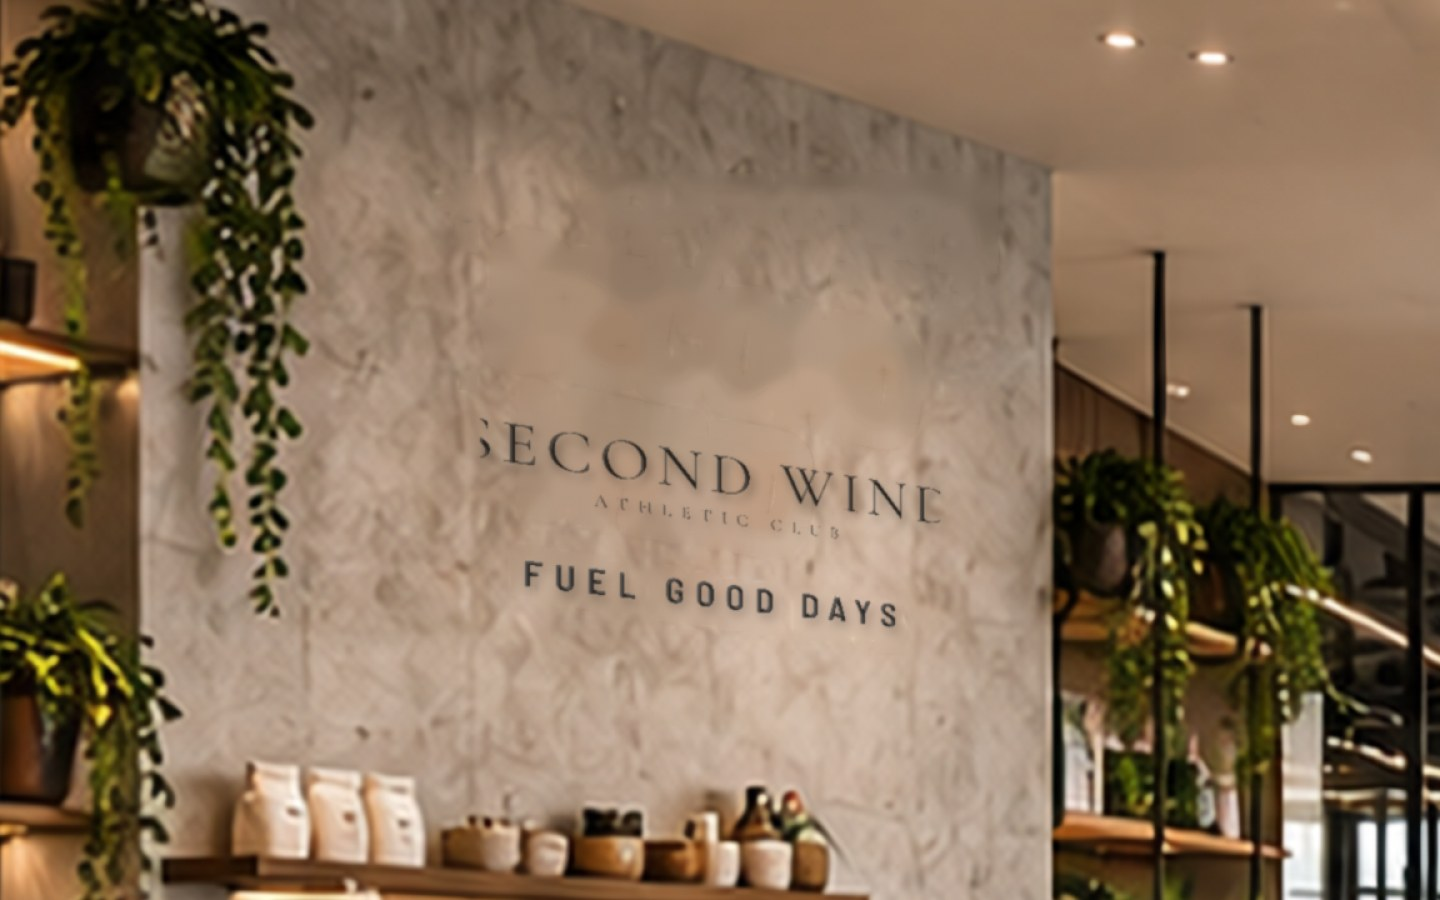
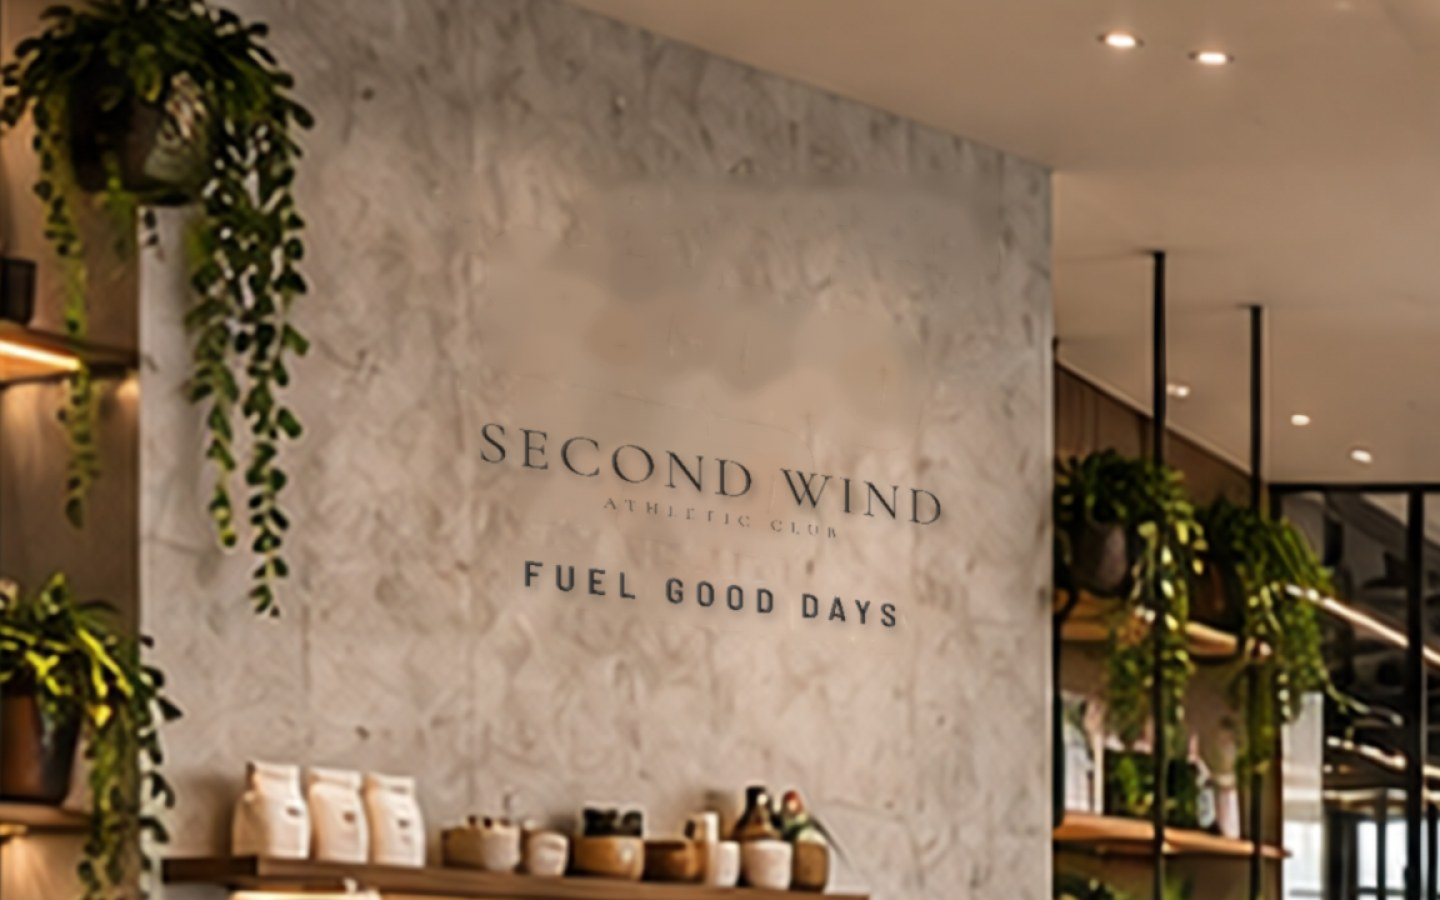
The serif (F7): full presentation, SW monogram, fixed clipped letters; top four
Claude-Session: https://claude.ai/code/session_01T7nJu2bFotHgzhJym42XGa

Changed region(s): [[0.3125, 0.4667, 0.6562, 0.5911]]

diff --git a/brand/identity-alt.html b/brand/identity-alt.html
@@ -119,7 +119,7 @@ html { -webkit-text-size-adjust:100%; text-size-adjust:100%; }
 <div class="wrap">
   <div class="top">
     <a href="index.html" style="background:var(--ink);color:var(--bg)">&#8592; Review</a><a href="#c1">Idea</a><a href="#c2">Icon</a><a href="#c3">Letters</a><a href="#c4">Lockups</a><a href="#c5">Colour</a><a href="#c6">Type</a><a href="#c7">In the space</a><a href="#cafe">Café</a><a href="#c8">Social</a><a href="#c9">Apparel</a><a href="#c10">Digital</a><a href="#c11">Print</a>
-    <span id="switch" style="margin-left:auto;display:flex;gap:6px;align-items:center"><span style="font:500 10px var(--f-label);letter-spacing:.12em;text-transform:uppercase;color:var(--muted)">Top three</span><a href="identity.html">Two strokes</a><a href="?logo=W1" data-l="W1">The wing</a><a href="?logo=B4" data-l="B4">The crest</a></span>
+    <span id="switch" style="margin-left:auto;display:flex;gap:6px;align-items:center"><span style="font:500 10px var(--f-label);letter-spacing:.12em;text-transform:uppercase;color:var(--muted)">Top four</span><a href="identity.html">Two strokes</a><a href="?logo=W1" data-l="W1">The wing</a><a href="?logo=B4" data-l="B4">The crest</a><a href="?logo=F7" data-l="F7">The serif</a><a class="ext" style="margin-left:8px" href="guidelines.html">Guidelines</a></span>
   </div>
 
   <!-- cover -->
@@ -172,7 +172,7 @@ html { -webkit-text-size-adjust:100%; text-size-adjust:100%; }
     <div class="txt"><h2><small>03</small>The letters</h2>
       <p class="lead" data-t="lettersLead"></p>
       <p data-t="letters1"></p>
-      <p>The same letters come in four weights, light to bold, drawn from the same bars. The logo never changes, only how heavy it is: light where people are close and calm, in the café, on cups, menus and print; bold where it has to carry across a room or a street, on the gym walls, the café front, merch and social. <span class="draft">Sergio to confirm the split, or one weight everywhere</span></p>
+      <p>The same letters come in four weights, light to bold<span data-t="bars"></span>. The logo never changes, only how heavy it is: light where people are close and calm, in the café, on cups, menus and print; bold where it has to carry across a room or a street, on the gym walls, the café front, merch and social. <span class="draft">Sergio to confirm the split, or one weight everywhere</span></p>
       <p class="k" data-t="lettersK"></p></div>
     <div class="frames">
       <div class="f"><div class="sl" data-sw="primary" data-c="ink" style="left:8%;top:22%;width:84%;height:56%"></div><span class="cap">The full mark · light</span></div>
@@ -491,7 +491,7 @@ html { -webkit-text-size-adjust:100%; text-size-adjust:100%; }
       lettersK: 'Italic · SECOND light, WIND bold · script club line, print only',
       lockupNote: 'The wing version has no stacked form: it is one line, always. Where a square is needed, the icon stands alone.',
       minSizes: 'FULL MARK · 60 MM PRINT · 220 PX · 90 MM THREAD<br>ICON · 18 MM · 16 PX · 24 MM THREAD', embroider: 'The D and its feathers embroider as one shape in two colours at most; the fine script line is left off anything stitched.',
-      cover: 'The wing' },
+      bars: ', drawn from the same bars', cover: 'The wing' },
     B4: { title: 'The crest', idea: 'A shield with the initials, a cut through the letters, the year beneath and the club name under the shield. Membership and belonging, drawn the traditional way.',
       iconLead: 'The shield is the icon. SW inside it, a single cut through both letters, EST. 2026 under them. It says members\' club before it says gym.',
       icon1: 'It is the strongest of the fourteen on a dark gym wall and on a fascia: a solid shape with a hard outline reads from the far end of the floor and from across the foyer. Embroidered on a cap it looks like it has been there for years.',
@@ -503,7 +503,19 @@ html { -webkit-text-size-adjust:100%; text-size-adjust:100%; }
       lettersK: 'Upright condensed capitals · the shield carries the weight',
       lockupNote: 'The crest is naturally square, so it works where the others need a stacked form; the full lockup is the tall version.',
       minSizes: 'FULL LOCKUP · 30 MM PRINT · 120 PX · 50 MM THREAD<br>SHIELD · 14 MM · 24 PX · 30 MM THREAD', embroider: 'The shield embroiders as a filled shape with the letters reversed out, which is why the cut through the letters is kept wide.',
-      cover: 'The crest' }
+      bars: ', drawn from the same bars', cover: 'The crest' },
+    F7: { title: 'The serif', idea: 'The name set in a fine serif, tracked wide, with the club line small beneath it. No symbol, no device: the letters themselves are the logo, the way a fashion house or a good hotel does it.',
+      iconLead: 'The SW monogram. The two initials set in the same serif, close enough to touch, between two hairlines. It is the piece that goes where the full name will not fit.',
+      icon1: 'This is the most expensive-looking of the fourteen, and the quietest. In the café it is at home at once: it looks like the cup, the menu and the shopfront of somewhere that charges properly for coffee. On a lit sign the serifs catch the halo and read as jewellery rather than signage, which suits the foyer and the street.',
+      icon2: 'What it gives up is sport. Nothing in it moves or works; it says taste before it says training. On the gym floor it has to be used bold and large, and it never goes on the turf or the track, where a serif at floor scale looks wrong. The monogram embroiders well; the full name does not go below 40 mm on thread.',
+      iconK: 'Icon · SW monogram between two rules · minimum 18 mm print, 24 px, 30 mm thread',
+      reads: 'Hotel.<br>Atelier.<br>Members.', notThis: 'Fashion label. Winery. A law firm.',
+      lettersLead: 'SECOND WIND in a light serif with wide tracking; ATHLETIC CLUB smaller and wider still beneath. Weight is the type weight, regular to bold, and the leaning version is the true italic.',
+      letters1: 'The letters do all the work, so spacing is the rule that matters: the tracking never tightens, the two lines stay centred on each other, and nothing else sits inside the clear space. Light in the café and in print; bold on the gym walls and the café front, where the thin strokes would otherwise disappear against the dark. This is the one candidate drawn in a typeface rather than from our bars, so it is also the easiest to set badly: the typeface and its tracking are fixed, not a style to approximate.',
+      lettersK: 'Light serif capitals · tracked wide · bold on dark walls · italic is the lean',
+      lockupNote: 'The serif has a natural stacked form, two centred lines, and that is the only lockup; it is never set on one line with the club name beside it.',
+      minSizes: 'FULL MARK · 40 MM PRINT · 180 PX · 60 MM THREAD<br>MONOGRAM · 18 MM · 24 PX · 30 MM THREAD', embroider: 'The monogram embroiders in a single colour with the hairlines left off; the full name is printed or cut, never stitched small, because thin serifs break up in thread.',
+      bars: ', the four weights of the typeface', cover: 'The serif' }
   };
   var q = new URLSearchParams(location.search), ID = (q.get('logo') || 'W1').toUpperCase(); if (!L[ID]) ID = 'W1';
   var T = L[ID];

diff --git a/brand/index.html b/brand/index.html
@@ -39,7 +39,7 @@ li.rec a{background:var(--walnut);color:var(--linen);border-color:var(--walnut)}
     <svg xmlns="http://www.w3.org/2000/svg" viewBox="-8 -8 228 82" style="width:120px;height:46px" aria-hidden="true"><g fill="#1e1c1a"><path d="M16 0L96 0L80 26L0 26ZM56 40L212 40L196 66L40 66Z"/></g></svg>
     <p class="label">Second Wind Athletic Club · brand review · November 2026</p>
     <h1>The brand,<br>for review</h1>
-    <p class="lead">Everything in one place. Start with the fourteen logos and tell us what you like and don't; then HUB's pages with the mark in place, the three identities, and the detail.</p>
+    <p class="lead">Everything in one place. Start with the fourteen logos and tell us what you like and don't; then HUB's pages with the mark in place, the four identities, and the detail.</p>
   </header>
   <ol>
     <li><a href="review.html"><i>01 · start here</i><b>Fourteen logos, one test</b><span>Every logo we explored, each shown on HUB's café wall, gym wall and fascia. Tap Like, Maybe or Not for me under each, add a comment, and send it all to Robbie in one go.</span></a></li>
@@ -47,8 +47,9 @@ li.rec a{background:var(--walnut);color:var(--linen);border-color:var(--walnut)}
     <li class="rec"><a href="identity.html"><i>03 · my favourite</i><b>The two strokes</b><span>The full identity: idea, symbol, letters, lockups, colour, type, in the space, the café, social, apparel, digital, print, motion. Guidelines linked from the top.</span></a></li>
     <li><a href="identity-alt.html?logo=W1"><i>04</i><b>The wing</b><span>Sergio's original idea rebuilt properly, presented in the same format so the three compare like for like.</span></a></li>
     <li><a href="identity-alt.html?logo=B4"><i>05</i><b>The crest</b><span>The club-badge direction: shield, SW, EST. 2026. Same format.</span></a></li>
-    <li><a href="options.html"><i>06</i><b>One mark, four weights</b><span>Light to bold on the real gym wall, and our recommendation: light in the café, bold in the gym.</span></a></li>
-    <li><a href="walkthrough.html"><i>07</i><b>Walk through the club</b><span>A 3D model built on HUB's plan. Start at Foyer and press Tour. Switch logos and weights top right. Best on a laptop.</span></a></li>
+    <li><a href="identity-alt.html?logo=F7"><i>06</i><b>The serif</b><span>Robbie's second favourite: the name in a fine serif with an SW monogram. Same format.</span></a></li>
+    <li><a href="options.html"><i>07</i><b>One mark, four weights</b><span>Light to bold on the real gym wall, and our recommendation: light in the café, bold in the gym.</span></a></li>
+    <li><a href="walkthrough.html"><i>08</i><b>Walk through the club</b><span>A 3D model built on HUB's plan. Start at Foyer and press Tour. Switch logos and weights top right. Best on a laptop.</span></a></li>
   </ol>
   <div class="foot">
     <a class="btn" href="/">The public pre-launch page</a>

diff --git a/brand/family.js b/brand/family.js
@@ -116,7 +116,7 @@
     /* fashion serif: weight is the font weight */
     F7: function (p, k) {
       var fw = k === 'light' ? 400 : k === 'medium' ? 500 : 700, it = k === 'lean' ? ' font-style="italic"' : '';
-      return { vb: '-40 0 680 170', inner: '<text x="300" y="86" text-anchor="middle" ' + SERF.replace('400', fw) + it + ' font-size="92" letter-spacing="10" fill="currentColor">SECOND WIND</text><text x="300" y="134" text-anchor="middle" ' + SERF + ' font-size="26" letter-spacing="14" fill="currentColor">ATHLETIC CLUB</text>' };
+      return { vb: '-140 0 880 170', inner: '<text x="300" y="86" text-anchor="middle" ' + SERF.replace('400', fw) + it + ' font-size="92" letter-spacing="10" fill="currentColor">SECOND WIND</text><text x="300" y="134" text-anchor="middle" ' + SERF + ' font-size="26" letter-spacing="14" fill="currentColor">ATHLETIC CLUB</text>' };
     }
   };
   var NAMES = { B5: 'Two strokes', W1: 'The wing', B1: 'Heritage arch', B4: 'Crest', F2: 'Interlocking SW', K1: 'Light and heavy', B6: 'Varsity 2', F6: 'Three stripes', B2: 'Condensed stack', B3: 'Lowercase', B7: 'Luxury tracking', G1: 'Extended', G2: 'Chamfered', F7: 'Fashion serif' };
@@ -128,6 +128,7 @@
     F2: function (p, k) { return D.F2(p, k); },
     K1: function (p, k) { var r = D.K1(p, k); return { vb: r.vb.split(' ').slice(0, 2).join(' ') + ' ' + (parseFloat(r.vb.split(' ')[2])) + ' 132', inner: r.inner.replace(/<text[\s\S]*<\/text>/, '') }; },
     B6: function (p, k) { var r = D.B6(p, k); return { vb: '-6 -6 240 202', inner: r.inner }; },
+    F7: function (p, k) { var fw = k === 'light' ? 400 : k === 'medium' ? 500 : 700, it = k === 'lean' ? ' font-style="italic"' : ''; return { vb: '0 0 200 200', inner: '<text x="100" y="138" text-anchor="middle" ' + SERF.replace('400', fw) + it + ' font-size="128" letter-spacing="-10" fill="currentColor">SW</text><path d="M58 160h84" stroke="currentColor" stroke-width="2"/><path d="M58 38h84" stroke="currentColor" stroke-width="2"/>' }; },
     F6: function (p, k) { var r = D.F6(p, k); return { vb: '-6 -6 192 112', inner: r.inner.replace(/<g transform="translate\(210 0\)">[\s\S]*$/, '') + (k === 'lean' ? '</g>' : '') }; }
   };
   window.SWF = {

diff --git a/brand/review.html b/brand/review.html
@@ -196,9 +196,9 @@ a:focus-visible { outline:2px solid var(--bronze); outline-offset:3px; }
       struggles: ['Racing rather than members\' club', 'Loud in a café that HUB has drawn quiet', 'No symbol for the small places'],
       verdict: 'ok', vt: 'Too loud for the room', vp: 'The weight is right for the gym; the attitude is wrong for the café.' },
     F7: { title: 'Fashion serif', fam: 'Celine, Saint Laurent, fashion houses', idea: 'A classical serif, spaced wide, with the club line beneath. The fashion-house look.',
-      works: ['Elegant on a business card or a menu', 'Would suit a spa'],
-      struggles: ['Serifs and hairlines vanish on a lit wall and on textured concrete', 'No symbol', 'Says fashion, not training'],
-      verdict: 'bad', vt: 'Wrong business', vp: 'Beautiful, and not a gym.' }
+      works: ['The most expensive-looking of the fourteen: at home on a cup, a menu, a business card and the café front', 'The SW monogram gives it an icon for glass, caps and the app', 'Reads as a members\' club from the street'],
+      struggles: ['Thin serifs vanish on a lit wall and on textured concrete, so it has to go bold and large in the gym', 'Says taste before training; nothing in it moves', 'Never on the turf or the track'],
+      verdict: 'ok', vt: 'Robbie\'s second favourite', vp: 'The café will love it; the gym has to be told to use it bold. Full presentation in the top four.' }
   };
   var order = ['B5', 'W1', 'B1', 'B4', 'F2', 'K1', 'B6', 'F6', 'B2', 'B3', 'B7', 'G1', 'G2', 'F7'];
   var toc = '', sp = '';

diff --git a/brand/identity.html b/brand/identity.html
@@ -119,7 +119,7 @@ html { -webkit-text-size-adjust:100%; text-size-adjust:100%; }
 <div class="wrap">
   <div class="top">
     <a href="index.html" style="background:var(--ink);color:var(--bg)">&#8592; Review</a><a href="#c1">Idea</a><a href="#c2">Symbol</a><a href="#c3">Wordmark</a><a href="#c4">Lockups</a><a href="#c5">Colour</a><a href="#c6">Type</a><a href="#c7">In the space</a><a href="#cafe">Café</a><a href="#c8">Social</a><a href="#c9">Apparel</a><a href="#c10">Digital</a><a href="#c11">Print</a><a href="#c12">Motion</a>
-    <span style="margin-left:auto;display:flex;gap:6px;align-items:center;flex-wrap:wrap"><span style="font:500 10px var(--f-label);letter-spacing:.12em;text-transform:uppercase;color:var(--muted)">Top three</span><a style="background:var(--ink);color:var(--bg)" href="#">Two strokes</a><a href="identity-alt.html?logo=W1">The wing</a><a href="identity-alt.html?logo=B4">The crest</a><a class="ext" style="margin-left:8px" href="guidelines.html">Guidelines</a></span>
+    <span style="margin-left:auto;display:flex;gap:6px;align-items:center;flex-wrap:wrap"><span style="font:500 10px var(--f-label);letter-spacing:.12em;text-transform:uppercase;color:var(--muted)">Top four</span><a style="background:var(--ink);color:var(--bg)" href="#">Two strokes</a><a href="identity-alt.html?logo=W1">The wing</a><a href="identity-alt.html?logo=B4">The crest</a><a href="identity-alt.html?logo=F7">The serif</a><a class="ext" style="margin-left:8px" href="guidelines.html">Guidelines</a></span>
   </div>
 
   <!-- cover -->
